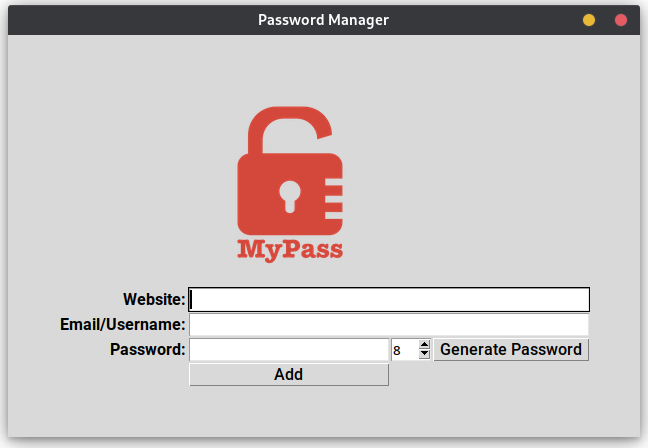
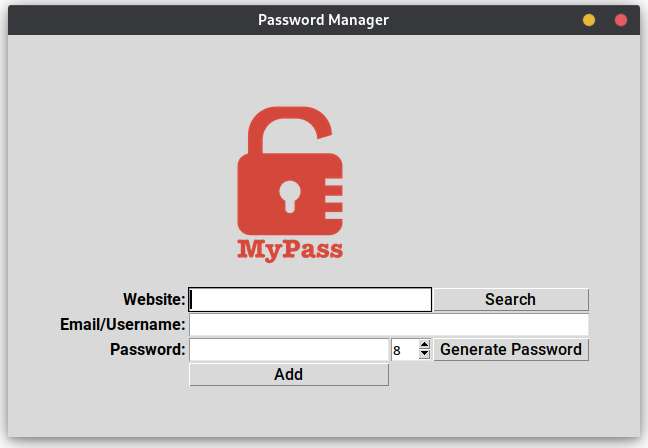
Added day 30 & Updated day 29

Changed region(s): [[0.6481, 0.625, 0.9259, 0.7188]]

diff --git a/Day_029/main.py b/Day_029/main.py
@@ -4,11 +4,14 @@
 # The passwords can be randomly generated and copied to the clipboard, using
 # the pyperclip module.
 
+# On day 30, this app was updated to store in a JSON file instead.
+
 import tkinter as tk
 from tkinter import messagebox
+import json
 import os
-import random
 import pyperclip
+import random
 
 FONT_BOLD = ("Roboto", 12, "bold")
 FONT = ("Roboto", 12)
@@ -75,12 +78,7 @@ PROJECT_DIR = os.path.dirname(os.path.abspath(__file__))
 ICON_IMG = os.path.join(PROJECT_DIR, "assets", "logo.ico")
 LOGO_IMG = os.path.join(PROJECT_DIR, "assets", "logo.png")
 
-DATA_FILE = os.path.join(PROJECT_DIR, "data", "data.txt")
-
-# Check if the directory exists, and create it if it doesn't.
-if not os.path.exists(DATA_FILE):
-    with open(DATA_FILE, "w") as file:
-        file.write("Website | Email/Username | Password\n\n")
+DATA_FILE = os.path.join(PROJECT_DIR, "data", "data.json")
 
 
 def define_password_character_count(target_sum):
@@ -95,7 +93,7 @@ def define_password_character_count(target_sum):
         target_sum (int): The total number of characters the password should contain.
 
     Returns:
-        list: A list containing three integers: the count of letters, the count of numbers, 
+        list: A list containing three integers: the count of letters, the count of numbers,
         and the count of symbols.
     """
     letters = 1
@@ -118,15 +116,15 @@ def define_password_character_count(target_sum):
 def generate_password():
     """Generate a random password and copy it to the clipboard.
 
-    This function generates a password based on the character counts 
-    defined by the `define_password_character_count` function. It 
-    randomly selects letters, numbers, and symbols, shuffles them, 
-    and then copies the resulting password to the clipboard. The 
+    This function generates a password based on the character counts
+    defined by the `define_password_character_count` function. It
+    randomly selects letters, numbers, and symbols, shuffles them,
+    and then copies the resulting password to the clipboard. The
     generated password is also displayed in the password entry field.
 
     Returns:
         None
-    """  
+    """
     count = define_password_character_count(int(password_spinbox.get()))
 
     password_letters = [random.choice(LETTERS) for _ in range(count[0])]
@@ -152,52 +150,105 @@ def generate_password():
 
 def save():
     """
-    Save the entered website, email, and password to a file.
+    Save the entered website, email, and password to a specified data file.
 
     This function retrieves the values from the input fields for the website,
     email/username, and password. It checks if any of the fields are empty and
     displays an error message if so. If all fields are filled, it prompts the
     user to confirm the details before saving them to a specified data file.
 
-    The data is appended to the file in the format:
-    "website | email/username | password".
+    The data is stored in a JSON format, where each website is a key, and its
+    associated value is a dictionary containing the email/username and password.
+    If the file does not exist, it will be created. If the file is empty or
+    contains invalid JSON, it will be initialized.
 
     After saving, the input fields are cleared.
 
     Raises:
-        Error: If any of the fields are empty.
+        ValueError: If any of the fields are empty.
+        FileNotFoundError: If the specified data file does not exist when trying to read.
+        json.JSONDecodeError: If the data file is empty or contains invalid JSON.
 
     Returns:
         None
     """
     widgets = (website_entry, email_entry, password_entry)
-    if (
-        len(widgets[0].get()) == 0
-        or len(widgets[1].get()) == 0
-        or len(widgets[2].get()) == 0
-    ):
+    website = widgets[0].get()
+    email = widgets[1].get()
+    password = widgets[2].get()
+    if len(website) == 0 or len(email) == 0 or len(password) == 0:
         messagebox.showerror(
             title="Oops", message="Please don't leave any empty fields!"
         )
         return
     confirm = messagebox.askokcancel(
         title="Confirm details",
-        message=f"Website: {widgets[0].get()}\nEmail/Username: {widgets[1].get()}\nPassword: {widgets[2].get()}",
+        message=f"Website: {website}\nEmail/Username: {email}\nPassword: {password}",
     )
     if confirm:
-        with open(DATA_FILE, "a") as file:
-            file.write(
-                f"{widgets[0].get()} | {widgets[1].get()} | {widgets[2].get()}\n"
+        new_data = {website: {"email": email, "password": password}}
+        try:
+            with open(DATA_FILE, "r") as file:
+                file_data = json.load(file)
+        except FileNotFoundError:
+            with open(DATA_FILE, "w") as file:
+                json.dump(new_data, file, indent=4)
+        except json.JSONDecodeError:
+            file_data = {}
+        finally:
+            file_data.update(new_data)
+            with open(DATA_FILE, "w") as file:
+                json.dump(file_data, file, indent=4)
+            for widget in widgets:
+                widget.delete(0, tk.END)
+
+
+def search_data():
+    """
+    Search for the email/username and password associated with a given website entry.
+
+    This function retrieves the website name from the input field and attempts to
+    load the stored data from a specified JSON file. If the file is found and
+    contains valid JSON data, it checks for the presence of the specified website
+    entry. If found, it displays the associated email/username and password in a
+    message box. If the website entry is not found, an error message is shown.
+
+    If the data file does not exist or is empty, the function handles these cases
+    gracefully without raising an error.
+
+    Raises:
+        FileNotFoundError: If the specified data file does not exist.
+        json.JSONDecodeError: If the data file is empty or contains invalid JSON.
+        KeyError: If the specified website entry is not found in the loaded data.
+
+    Returns:
+        None
+    """
+    entry = website_entry.get()
+    if entry == "":
+        tk.messagebox.showwarning("Empty Website", "Please insert a valid website name.")
+        return
+    try:
+        with open(DATA_FILE, "r") as file:
+            file_data = json.load(file)
+    except FileNotFoundError:
+        pass
+    except json.JSONDecodeError:
+        file_data = {}
+    finally:
+        try:
+            tk.messagebox.showinfo(
+                entry,
+                f"Email/Username: {file_data[entry]['email']}\nPassword: {file_data[entry]['password']}",
             )
-        for widget in widgets:
-            widget.delete(0, tk.END)
+        except KeyError:
+            tk.messagebox.showerror(entry, f"{entry} was not found in the database.")
 
 
 window = tk.Tk()
 window.title("Password Manager")
 window.config(padx=50, pady=50)
 window.resizable(False, False)
-# window.iconbitmap(ICON_IMG)
 
 
 logo_img = tk.PhotoImage(file=LOGO_IMG)
@@ -210,7 +261,7 @@ website_label = tk.Label(text="Website:", font=FONT_BOLD)
 website_label.grid(row=1, column=0, sticky="E")
 
 website_entry = tk.Entry(font=FONT)
-website_entry.grid(row=1, column=1, columnspan=3, sticky="EW")
+website_entry.grid(row=1, column=1, columnspan=2, sticky="EW")
 website_entry.focus()
 
 email_label = tk.Label(text="Email/Username:", font=FONT_BOLD)
@@ -228,6 +279,9 @@ password_entry.grid(row=3, column=1, sticky="EW")
 password_spinbox = tk.Spinbox(from_=8, to=128, width=3)
 password_spinbox.grid(row=3, column=2)
 password_spinbox.bind("<Key>", "break")
+
+search_btn = tk.Button(text="Search", font=FONT, padx=5, pady=0, command=search_data)
+search_btn.grid(row=1, column=3, sticky="EW")
 
 generate_btn = tk.Button(
     text="Generate Password", font=FONT, padx=5, pady=0, command=generate_password

diff --git a/Day_026/main.py b/Day_026/main.py
@@ -33,6 +33,40 @@ def phonetize(input):
     return phonetized_list
 
 
+def main_loop():
+    """Run the main loop for user input and phonetic conversion.
+
+    This function prompts the user to enter a word and converts it into its
+    phonetic representation using the `phonetize` function. If the input
+    contains invalid characters (i.e., non-alphabetical characters), it
+    informs the user and prompts for input again.
+
+    The function continues to loop until a valid word is entered. Once a
+    valid word is provided, it displays the phonetic code words associated
+    with that word.
+
+    Raises:
+        KeyError: If the input word contains characters that are not
+        recognized by the `phonetize` function.
+
+    Example:
+        main_loop()
+        Enter a word: hello
+        Here are the phonetic code words for hello: [phonetic representation]
+    """
+    word = ""
+
+    while len(word) == 0:
+        word = input("Enter a word: ")
+        try:
+            phonetized_word = phonetize(word)
+        except KeyError:
+            print("Only letters from the alphabet are allowed!")
+            main_loop()
+        else:
+            print(f"Here are the phonetic code words for {word}: {phonetized_word}")
+
+
 raw_file_data = read_file(NATO_FILE)
 
 NATO_LETTERS = raw_file_data["letter"].str.upper().tolist()
@@ -40,9 +74,4 @@ NATO_WORDS = raw_file_data["code"].str.capitalize().tolist()
 
 NATO_DICT = {letter: code for (letter, code) in zip(NATO_LETTERS, NATO_WORDS)}
 
-word = ""
-
-while len(word) == 0:
-    word = input("Enter a word: ")
-
-print(f"Here are the phonetic code words for {word}: {phonetize(word)}")
+main_loop()

diff --git a/Day_030/test.py b/Day_030/test.py
@@ -1,0 +1,24 @@
+def calculate_bmi(height, weight):
+    if height > 3:
+        raise ValueError("Human height should not exceed 3 meters!")
+    bmi = weight / height**2
+    print(f"BMI: {bmi}")
+
+
+try:
+    file = open("file.txt")
+    my_dict = {"key": "value"}
+    print(my_dict["key"])
+except FileNotFoundError:
+    file = open("file.txt", "w")
+    file.write("Something")
+except KeyError as error_message:
+    print(f"The key {error_message} does not exist!")
+else:
+    content = file.read()
+    print(content)
+finally:
+    file.close()
+    print("The file was closed.")
+
+# calculate_bmi(4, 60)

diff --git a/Day_029/README.md b/Day_029/README.md
@@ -3,7 +3,7 @@
 Day 29 was focused on creating a password manager, using the Tkinter module.
 
 It's a simple password manager, that allows you to store yur entries in
-a txt file under the format: Website | Email/Username | Password.
+a JSON file with Website keys.
 
 The passwords can be randomly generated and copied to the clipboard, using
 the pyperclip module.

diff --git a/Day_030/README.md b/Day_030/README.md
@@ -1,0 +1,5 @@
+# Day_030 - Error Handling & JSON files
+
+On day 30, no particular app was created, instead, the concepts of error handling & JSON files were explored.
+
+The password manager app created on day 29 was updated to use a JSON file instead of txt and a few try & except blocks were added.
